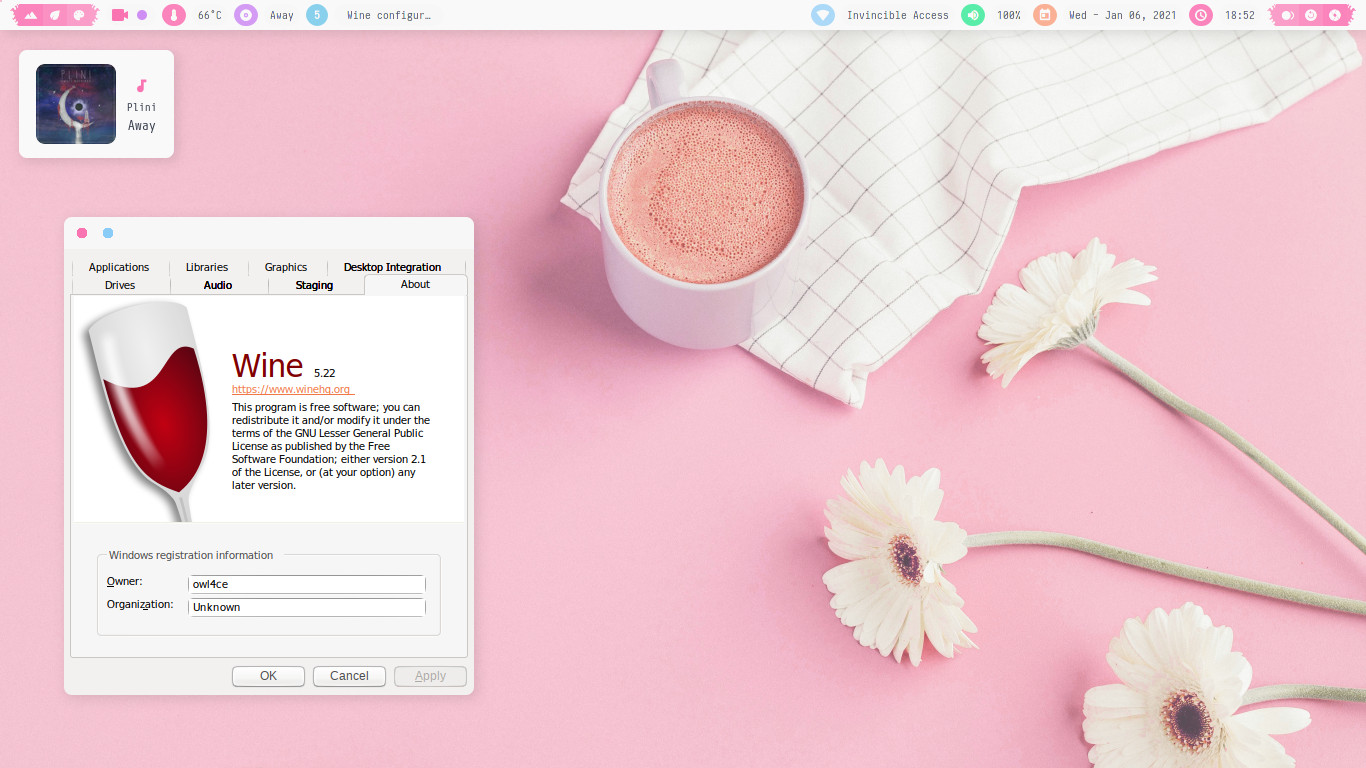
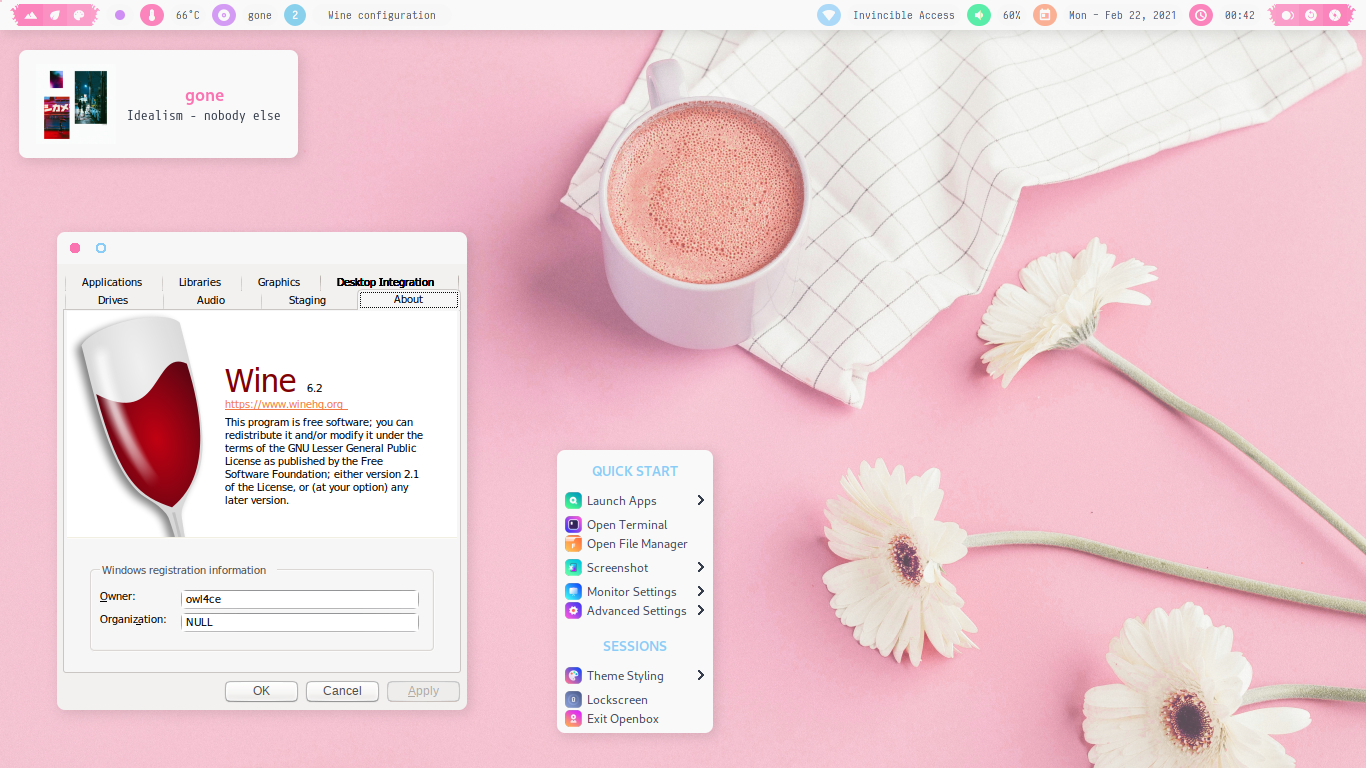
Wine 6.2: Tested succesfully

diff --git a/README.md b/README.md
@@ -11,7 +11,7 @@ cURL **wfs** then select your options.
 $ curl -s "https://raw.githubusercontent.com/owl4ce/wfs/main/wfs" | bash
 ```
 
-> :heavy_check_mark: **wine-5.22 (Staging)**
+> :heavy_check_mark: **wine-6.2 (Staging)**
 
 ##  
 
